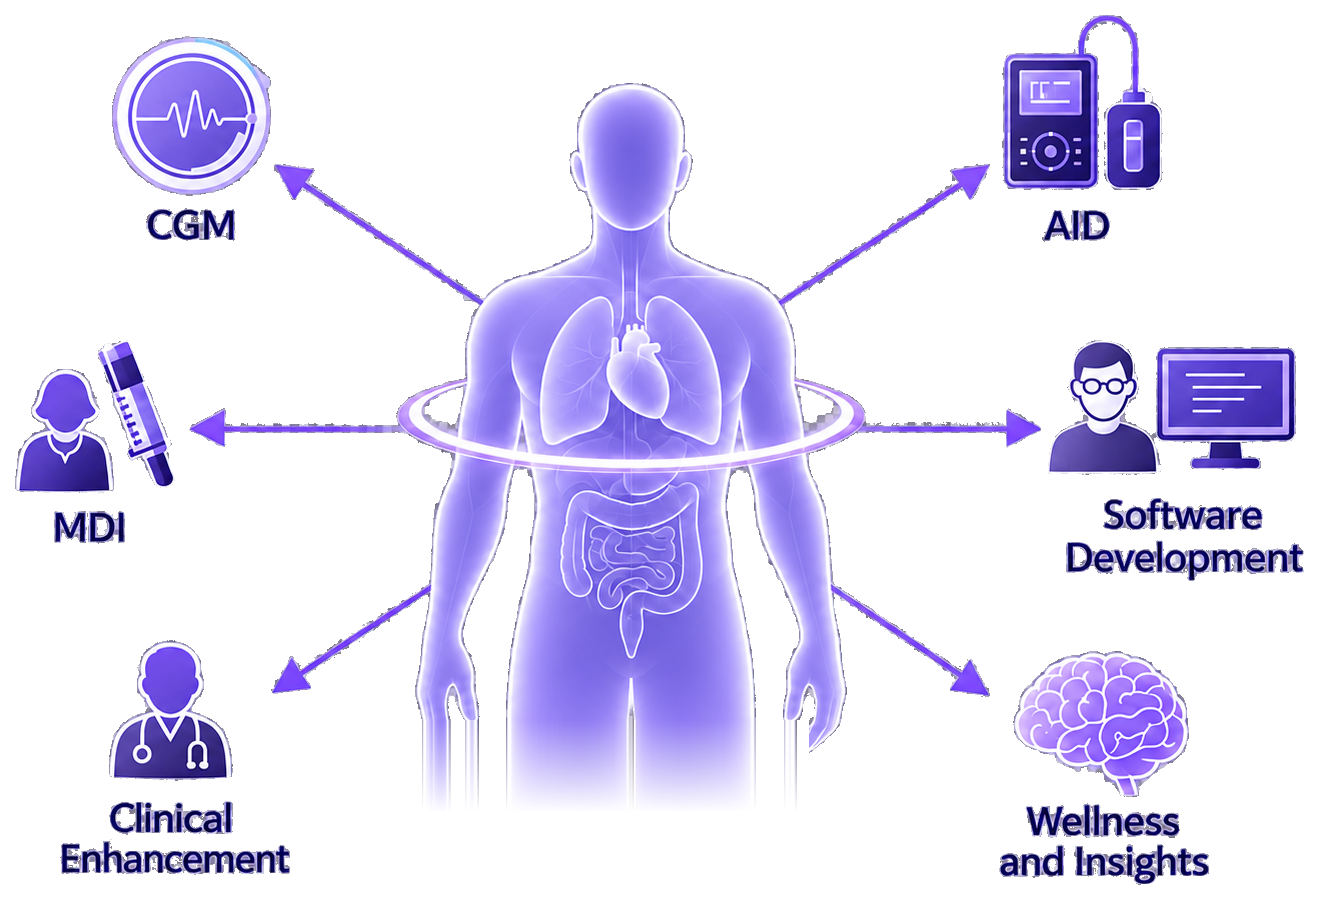
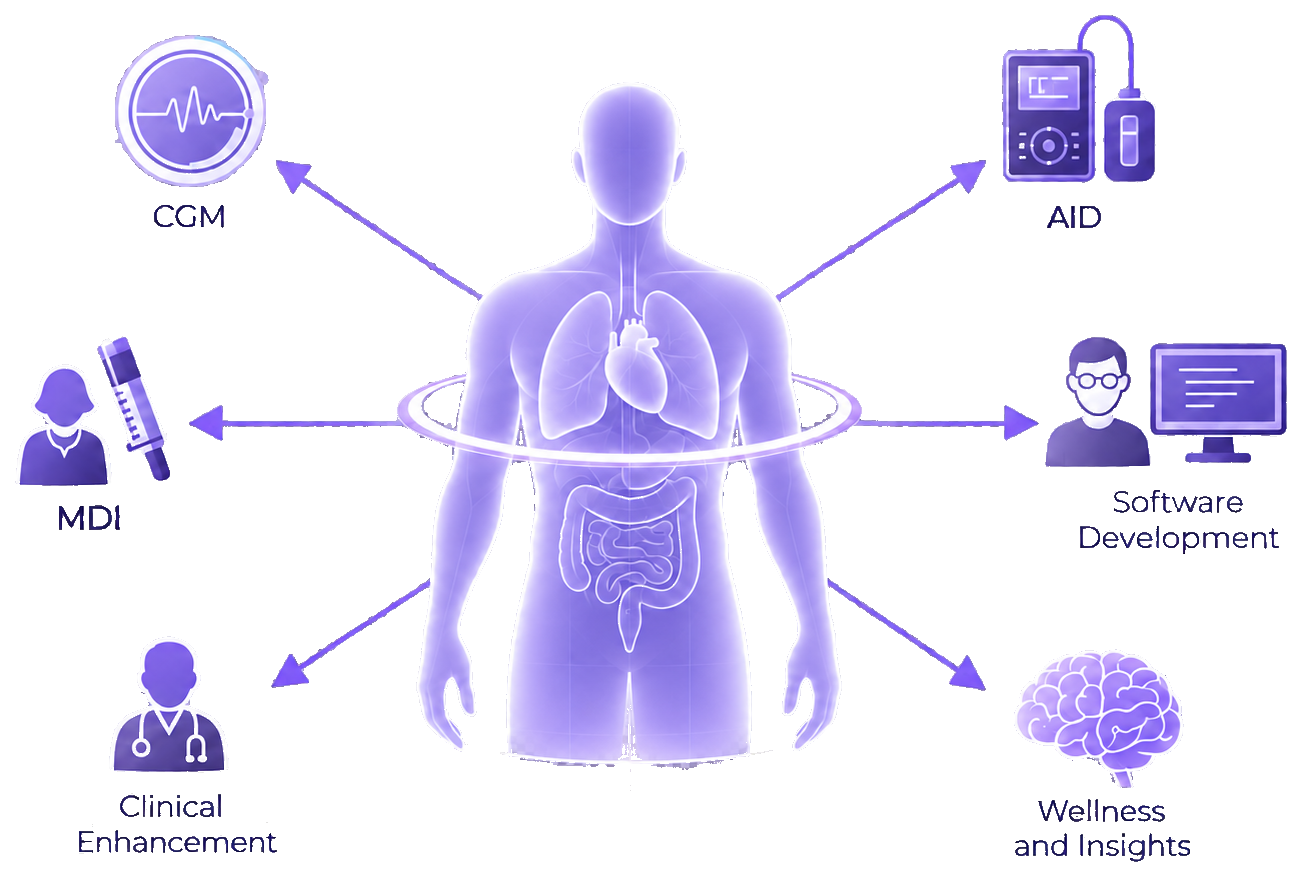
Swap in updated solution image, drop ring glow animation
The new source file already renders the waist ring cleanly, so the
animated glow overlay is no longer needed. Also normalizes the
Mission section's vertical padding to match the other homepage
sections (12vh).

diff --git a/components/Solution.tsx b/components/Solution.tsx
@@ -1,5 +1,7 @@
+import Image from "next/image";
 import RevealSection from "./RevealSection";
-import SolutionImage from "./SolutionImage";
+
+const basePath = process.env.NEXT_PUBLIC_BASE_PATH || "";
 
 export default function Solution() {
   return (
@@ -19,7 +21,14 @@ export default function Solution() {
             </p>
           </div>
 
-          <SolutionImage />
+          <Image
+            src={`${basePath}/solution/solution-image.png`}
+            alt="A translucent human figure showing connected metabolic data points — CGM, AID, MDI, software development, clinical enhancement and wellness insights — radiating outward"
+            width={1301}
+            height={876}
+            className="mx-auto h-auto w-full max-w-[560px]"
+            priority
+          />
         </div>
       </div>
     </RevealSection>

diff --git a/components/Mission.tsx b/components/Mission.tsx
@@ -2,7 +2,7 @@ import RevealSection from "./RevealSection";
 
 export default function Mission() {
   return (
-    <RevealSection className="relative overflow-hidden px-[8vw] py-[14vh]">
+    <RevealSection className="relative overflow-hidden px-[8vw] py-[12vh]">
       <div
         className="pointer-events-none absolute left-1/2 top-0 h-[420px] w-[420px] -translate-x-1/2 -translate-y-1/3 rounded-full opacity-25 blur-[100px]"
         style={{ background: "radial-gradient(circle, #C9AFF5, transparent 70%)" }}

diff --git a/app/globals.css b/app/globals.css
@@ -137,17 +137,6 @@ body {
   animation: flowDash 1.1s linear infinite;
 }
 
-@keyframes ringGlowTravel {
-  to {
-    stroke-dashoffset: -1;
-  }
-}
-
-.solution-ring-glow {
-  filter: drop-shadow(0 0 6px #ffffff) drop-shadow(0 0 14px #8a52f0);
-  animation: ringGlowTravel 3.2s linear infinite;
-}
-
 /* generic scroll-reveal, toggled by IntersectionObserver in RevealSection */
 .reveal {
   opacity: 0;
